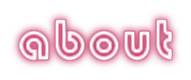
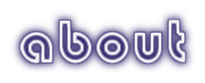
blehhh color palletes blehhhh

diff --git a/bunteeth_web_server/www/html/css/style.css b/bunteeth_web_server/www/html/css/style.css
@@ -3,13 +3,11 @@ header {
 }
 
 header img {
-  display: block;
   margin: 0 auto;
-}
-
-#title {
+  display: block;
   position: relative;
-  bottom: 20px;
+  bottom: 0px;
+  left: 0px;
 }
 
 nav {
@@ -20,8 +18,8 @@ nav {
 
 nav img {
  /*width: 15%;
- height: 15%;*/
- position: relative;
+  height: 15%;*/
+  position: relative;
 }
 
 nav img:hover {
@@ -31,7 +29,7 @@ nav img:hover {
 
 #github-button {
   position: relative;
-  top: 12px;
+  top: 15px;
 }
 
 ::-webkit-scrollbar { /* Chrome */
@@ -47,7 +45,7 @@ body {
 }
 
 hr {
-border: 2.5px solid #93C740;
+border: 2.5px solid #361612;
 }
 
 main {
@@ -58,7 +56,7 @@ main {
 }
 
 #pfp {
-  border: 5px solid #644117;
+  border: 5px solid #361612;
   position: absolute;
   top:  10px;
   left: 10px;
@@ -72,20 +70,6 @@ footer {
 footer img {
   width: 7%;
 }
-
-  /* THIS IS HOW U DO CONTAINERS :D :
-  			THIS IS HOW 2 DO BACKGROUND IMAGES!!!!!!!!!
-  			  background-image: url(../images/sugarbunny.png);
-			  background-repeat: no-repeat;
-			  background-size: cover;
-
-  		THIS IS HOW 2 DO GRADIENTS !!!!!!!!!!!!!
-  			red:
-			  background: #C7406B;
-			  background: linear-gradient(180deg, rgba(199, 64, 107, 1) 0%, rgba(130, 43, 71, 1) 25%, rgba(46, 17, 25, 1) 75%);
-			green:
-			  background: #93C740;
-			  background: linear-gradient(180deg, rgba(147, 199, 64, 1) 0%, rgba(96, 128, 45, 1) 25%, rgba(52, 69, 24, 1) 75%); */
 
 .body-container {
   position: relative;
@@ -103,9 +87,13 @@ footer img {
   width: 20%;
   height: 99%;
   top: 0px;
-  background: #C7406B;
-  background: linear-gradient(180deg, rgba(199, 64, 107, 1) 0%, rgba(130, 43, 71, 1) 25%, rgba(46, 17, 25, 1) 75%);
-  border: 5px solid #644117;
+/*  background: #C7406B;
+  background: linear-gradient(180deg, rgba(199, 64, 107, 1) 0%, rgba(130, 43, 71, 1) 25%, rgba(46, 17, 25, 1) 75%); */
+  background: #123524;
+  background: linear-gradient(180deg, rgba(18, 53, 36, 1) 0%, rgba(11, 31, 21, 1) 25%, rgba(6, 18, 12, 1) 75%);
+/*  background: #84172C;
+  background: linear-gradient(180deg, rgba(132, 23, 44, 1) 0%, rgba(107, 21, 40, 1) 25%, rgba(74, 14, 27, 1) 75%); */
+  border: 5px solid #361612;
   overflow: scroll;
 }
 
@@ -122,9 +110,13 @@ footer img {
   width: 20%;
   height: 99%;
   top: 0px;
-  background: #C7406B;
-  background: linear-gradient(180deg, rgba(199, 64, 107, 1) 0%, rgba(130, 43, 71, 1) 25%, rgba(46, 17, 25, 1) 75%);
-  border: 5px solid #644117;
+/*  background: #C7406B;
+  background: linear-gradient(180deg, rgba(199, 64, 107, 1) 0%, rgba(130, 43, 71, 1) 25%, rgba(46, 17, 25, 1) 75%); */
+  background: #123524;
+  background: linear-gradient(180deg, rgba(18, 53, 36, 1) 0%, rgba(11, 31, 21, 1) 25%, rgba(6, 18, 12, 1) 75%);
+/*  background: #84172C;
+  background: linear-gradient(180deg, rgba(132, 23, 44, 1) 0%, rgba(107, 21, 40, 1) 25%, rgba(74, 14, 27, 1) 75%); */
+  border: 5px solid #361612;
   overflow: scroll;
  /* background: black;
   border-right-color: black;
@@ -135,13 +127,17 @@ footer img {
 .rightsidebar ul {
   position: absolute;
   text-align: left;
-/*  list-style-type: none;*/
-  list-style-image: url('https://pixelsafari.neocities.org/favicon/nature/plant/flower/blue9.gif');
+  list-style-type: none;
+/*  list-style-image: url('https://pixelsafari.neocities.org/favicon/nature/plant/flower/blue9.gif'); */
+}
+
+.rightsidebar li {
+  margin: 10px 0;
 }
 
 .rightsidebar a {
   position: relative;
-  color:#40C79C;
+  color: #BA4C3E;
   left: 30px;
   top: 5px;
 }
@@ -162,11 +158,20 @@ footer img {
   width: 58.5%;
   height: 99%;
   text-align: center;
-  background: #6e6e6e;
-  background: linear-gradient(180deg, rgba(110, 110, 110, 1) 0%, rgba(77, 77, 77, 1) 25%, rgba(43, 43, 43, 1) 75%);
-  /*background: #93C740;
-  background: linear-gradient(180deg, rgba(147, 199, 64, 1) 0%, rgba(96, 128, 45, 1) 25%, rgba(52, 69, 24, 1) 75%);*/
-  border: 5px solid #644117;
+  /* PURPLE */
+  /* background: #48205e;
+  background: linear-gradient(180deg, rgba(72, 32, 94, 1) 0%, rgba(41, 18, 54, 1) 25%, rgba(21, 9, 28, 1) 75%); */
+  /* BLUE */
+/*  background: #171236;
+  background: linear-gradient(180deg, rgba(23, 18, 54, 1) 0%, rgba(12, 9, 31, 1) 25%, rgba(7, 4, 20, 1) 75%);*/
+   /* BROWN */
+  background: #4a4318;
+  background: linear-gradient(180deg, rgba(74, 67, 24, 1) 0%, rgba(54, 49, 18, 1) 25%, rgba(26, 22, 9, 1) 75%);
+  /* GREY */
+/*  background: #6e6e6e;
+  background: linear-gradient(180deg, rgba(110, 110, 110, 1) 0%, rgba(77, 77, 77, 1) 25%, rgba(43, 43, 43, 1) 75%); */
+  /*border: 5px solid #362912; */
+  border: 5px solid #361612;
   border-right-color: black;
   border-left-color: black;
   overflow: scroll;
@@ -220,6 +225,7 @@ footer img {
   width: 70%;
   height: 70%;
   left: 15%;
+  top: 100px;
   text-align: center;
   background-image: url("/images/page1.png");
   background-size: contain;
@@ -230,7 +236,7 @@ footer img {
 
 .binderButton {
   position: relative;
-  top: 80%;
+  top: 70px;
   background-color: transparent;
   background-repeat: no-repeat;
   outline: none;
@@ -254,7 +260,7 @@ footer img {
 
 #binderButtonNext{
   position: relative;
-  left: 20px;
+  left: 250px;
   transform: scaleX(-1);
   -webkit-transform: scaleX(-1);
 }
@@ -268,7 +274,7 @@ footer img {
 
 #binderButtonBack {
   position: relative;
-  right: 20px;
+  right: 250px;
 }
 
 #binderButtonBack p {
@@ -278,7 +284,7 @@ footer img {
 
 #pageCaption {
   position: relative;
-  top: 75%;
+  top: 78%;
 /*  border-top: 2px solid grey;
   border-bottom: 2px solid gray; */
 }

diff --git a/bunteeth_web_server/www/html/blog/introspection.html b/bunteeth_web_server/www/html/blog/introspection.html
@@ -30,7 +30,7 @@
 			<!--TODO-->
 			<!--<h1>A</h1>-->
 			<div class="content-container">
-				<img src="/images/bocchi.jpg" style="border: solid 5px #644117; position: relative; top: 15px;">
+				<img src="/images/bocchi.jpg" style="border: solid 5px #361612; position: relative; top: 15px;">
 				<h2 style="font-size:20px">Bocchi is literally me. No other character can come close to relating to me like her. There is no way you can convince me that I’m not Bocchi. Bocchi could not possibly be any more me. It’s me, and nobody can convince me otherwise. If anyone approached me about this not possibly being me, I immediately shut them down with overwhelming evidence that Bocchi was me. Bocchi is absolutely me; it is indisputable. Why anyone would try to argue that Bocchi is not me is beyond me. If you held two pictures of me and Bocchi side by side, you’d see no difference. I can safely look at Bocchi every day and say, “Yup, she’s me.” I can practically see Bocchi whenever I look at myself in the mirror. I go outside, and people stop me from commenting on how similar I look and act as Bocchi is. I chuckle softly as I’m assured every day Bocchi is me in every way. I can smile each time I get out of bed each morning, knowing that I’ve found my identity with Bocchi and I know my place in this world. It’s amusing how similar she is to me; it’s almost like identical twins. When I first saw Bocchi, I had an existential crisis. What it Bocchi was the real me and I was the fictional being? What if she actually became aware of my existence? Did she have the ability to become self-aware? Bocchi and I are one and the same. No other, out of all heroes, fiends, fools, queens, living and undead, I only find myself relating to Bocchi. Many have tried, many will try, and yet many have failed, and many will fail to stir my mind and dissuade me into considering I am not Bocchi. In all but name, Bocchi is my equal in every aspect, and she is incapable of being anything more like me-- and I incapable of being more like she. Bocchi is I, and none can prove anything but that. Doth thou compare a depiction of Bocchi and a depiction of myself, there would be not a single discrepancy. With an undying certainty, I am able to look at Bocchi at any time, and with no hesitation, speaketh "Verily, she is me". When mine eyes behold mine reflection, Bocchi greets me with the same stare. Whenst I venture forth, brigands prevent me from remarking on how Bocchi and I breathe the same air and tread the same grass. If I do not guffaw loudly, I chuckle softly as it is assured daily that Bocchi is I, in every imaginable way. I awaken each morn with a grin, content in knowing who I am, and who Bocchi is, and that she and I have found mine place on this pitiful earth. It is entertainingly curious how she is to I how I am to her, as though we were babes from the same womb. Upon the first time mine eyes laid upon Bocchi the Rock, mine mind itself was Rocked by the Bocchi to its core. Lo, I felt as though-- nay, I thought as though-- nay, I knew-- Bocchi was the true I, and I was merely a work of fiction. I ponder to myself on what would occur were she aware of mine being. Mayhaps she has the ability to know her own existence, not of that as a work of fiction, but as a work of fiction knowing she is a work of fiction?</h2>
 			</div>
 			<div class="rightsidebar">

diff --git a/bunteeth_web_server/www/html/blog/tcgbinder.html b/bunteeth_web_server/www/html/blog/tcgbinder.html
@@ -32,12 +32,11 @@
 		<div class="body-container">
 			<div class="content-container">
 				<!--TODO-->
-				<h2>This is my pokemon binder ^-^</h2>
 				<div class="binder-pages" id="pageContainer">
 				</div>
+					<button id="binderButtonBack" class="binderButton" onclick="binderPageButtonBack()"><p><b>Last Page !</b></p></button>
+					<button id="binderButtonNext" class="binderButton" onclick="binderPageButtonNext()"><p><b>Next Page !</b></p></button>
 					<p id="pageCaption">Here's my opening page of Glaceon & Leafeon. This page is for non-illustration rares. All I'm  missing rn are GX's. ^-^</p>
-					<button id="binderButtonBack" class="binderButton" onclick="binderPageButtonBack()"><p>Last Page !</p></button>
-					<button id="binderButtonNext" class="binderButton" onclick="binderPageButtonNext()"><p>Next Page !</p></button>
 			</div>
 			<div class="rightsidebar">
 				<h2><b>Blog:</b></h2>

diff --git a/bunteeth_web_server/www/html/index.html b/bunteeth_web_server/www/html/index.html
@@ -13,7 +13,7 @@
   <body>
     <header>
     <!--title image -->
-      <img id="title" src="images/title.png">
+      	<img src="images/title.png">
     <!--navigation menu -->
       <nav>
             <a href="/"><img id="home-button" src="images/home.png" style="display: inline-block;"></a>
